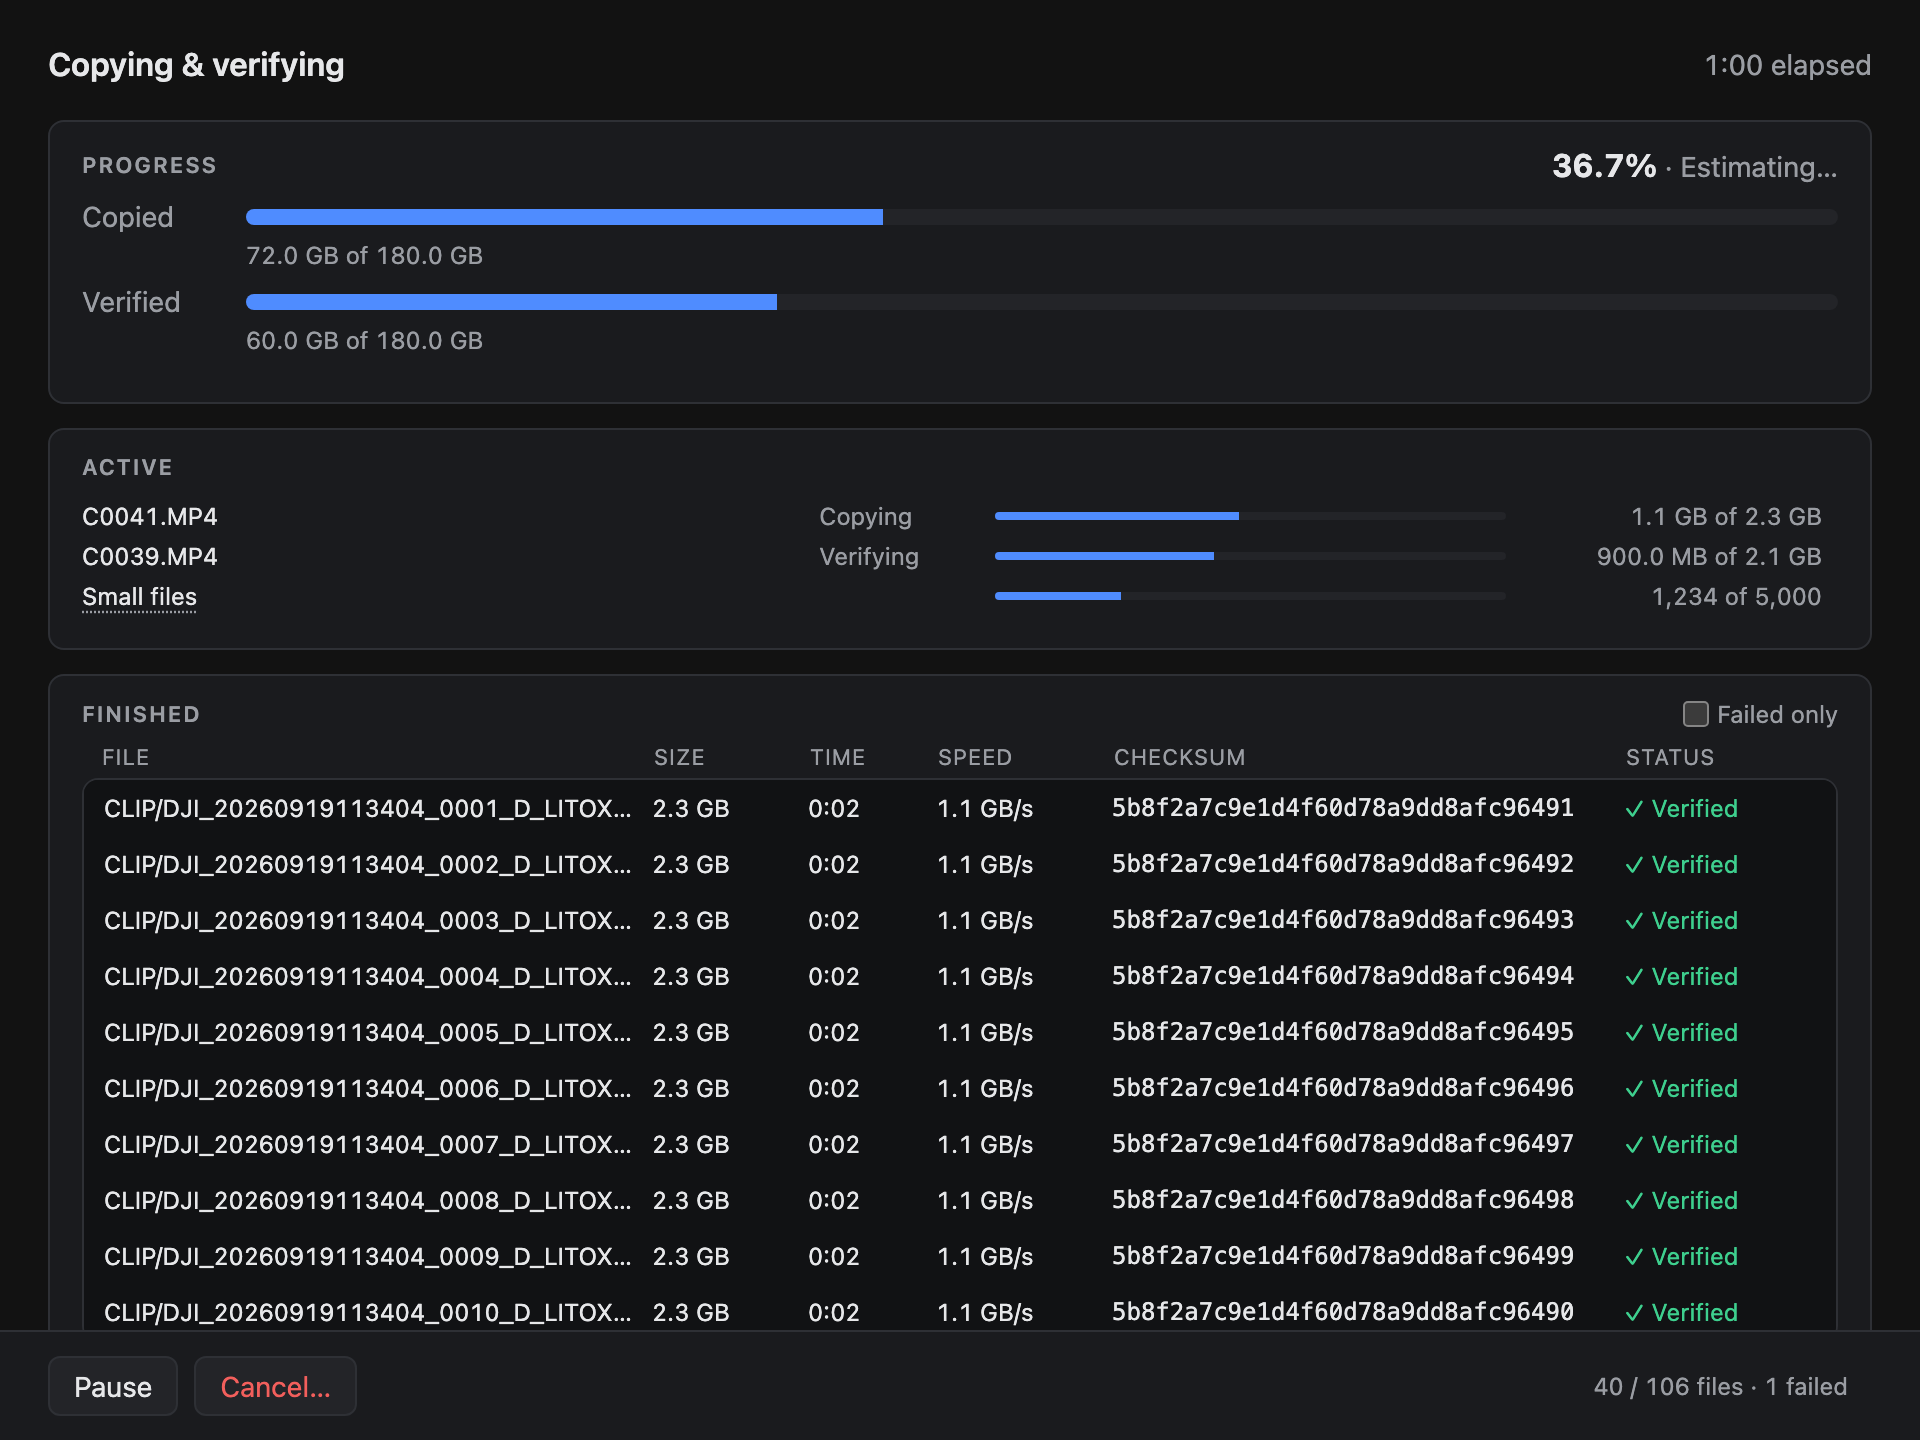
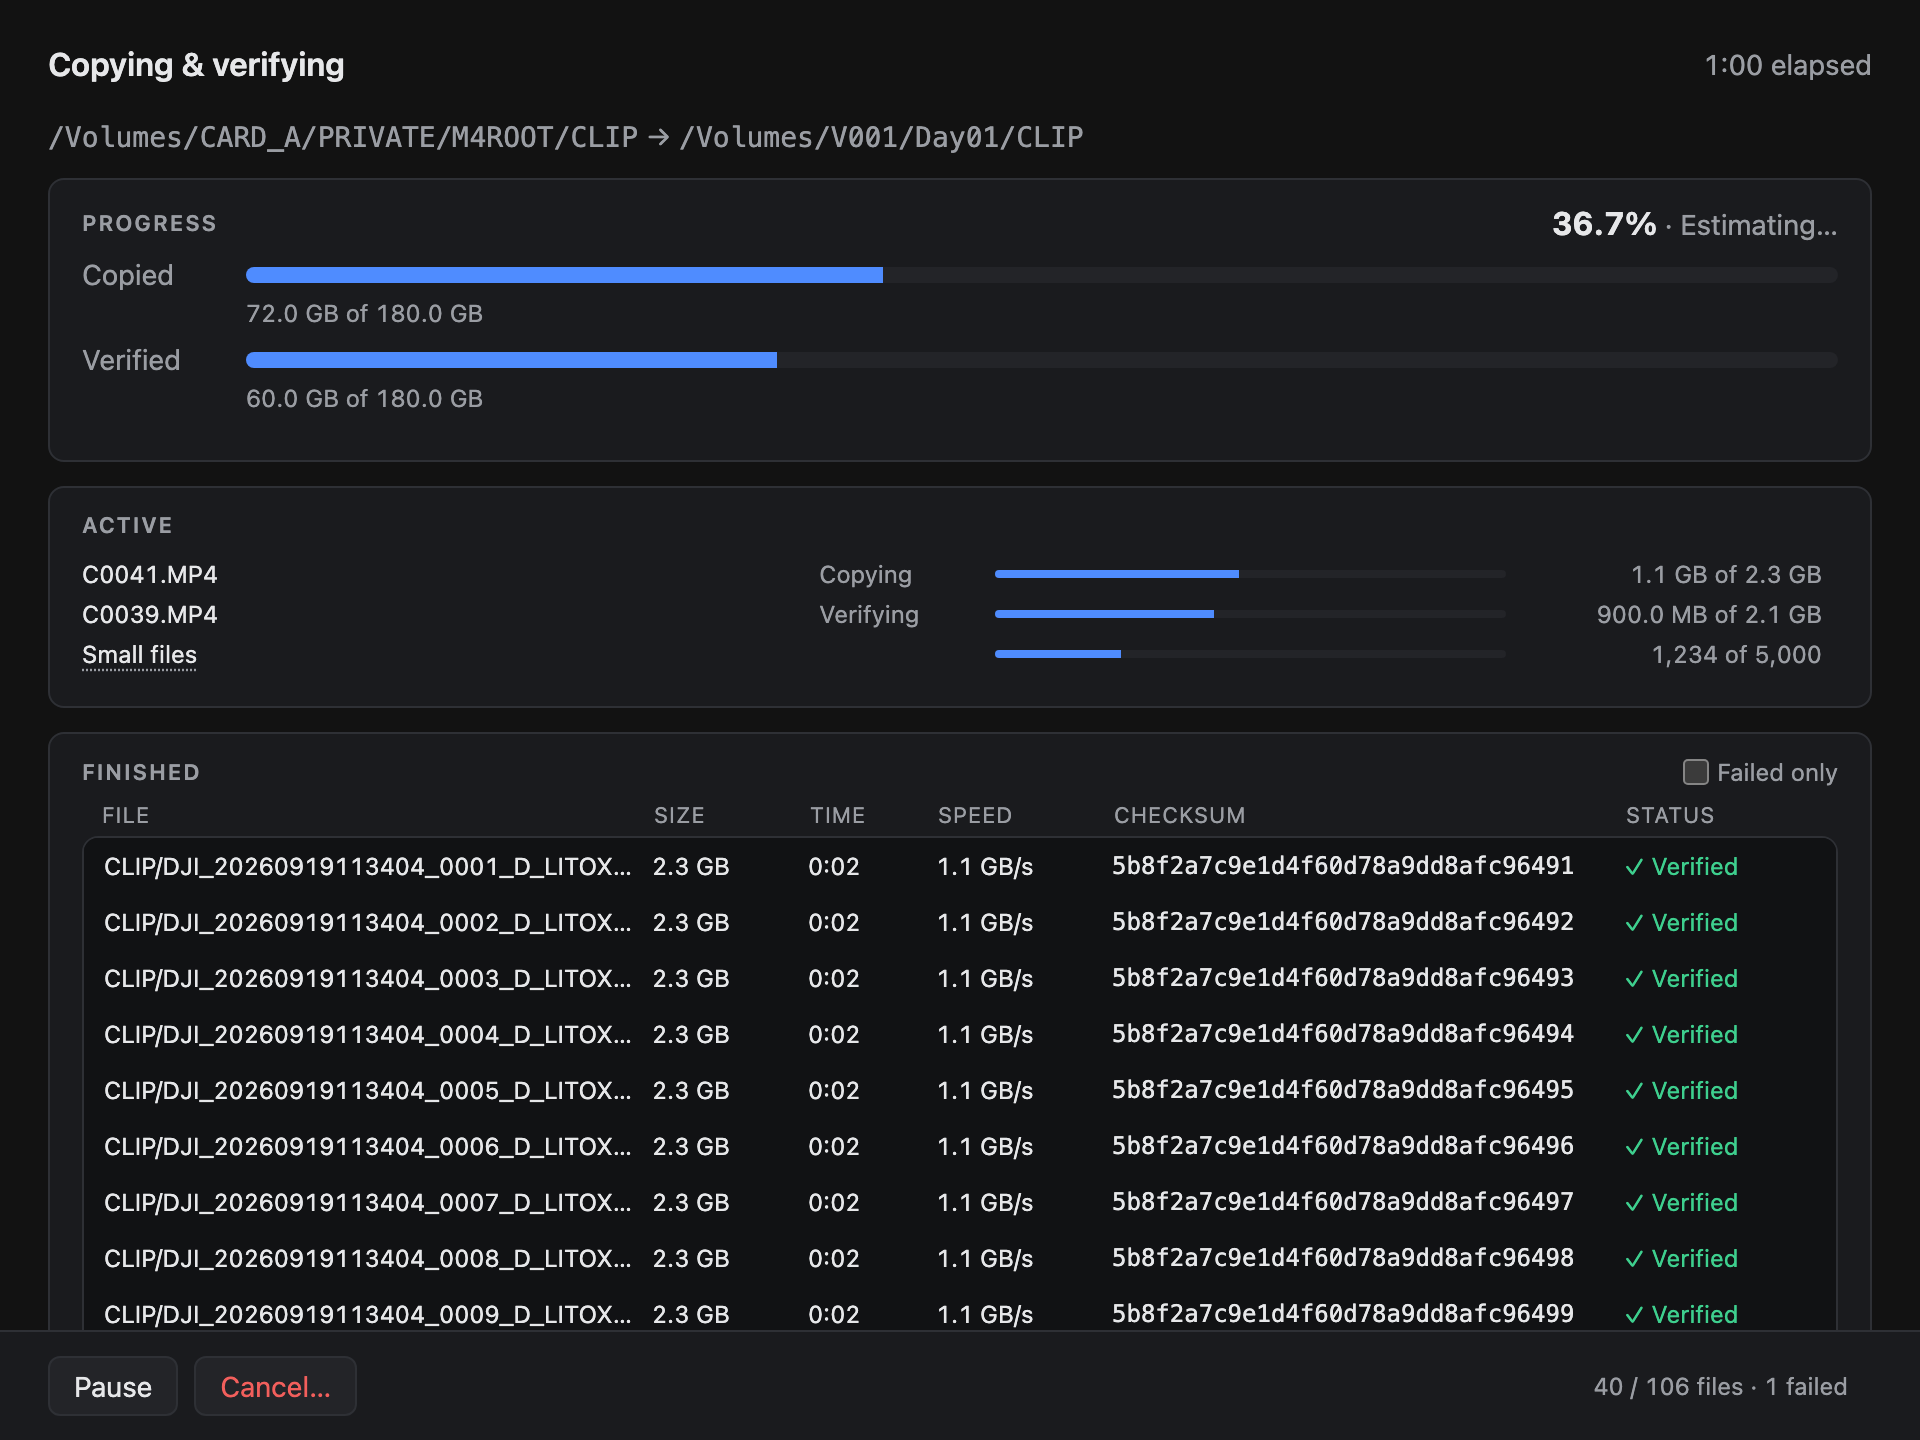
feat(progress): the screen says which job runs
A line under the title names the job: a copy's source → where its files
go, a mirror's name, origin → destination, Verify's directory. In a queue
it starts with the job's place ("Job 1 of 2"), moved there from the
action bar, and follows each job, its checks included. Long paths keep
their end visible, with the whole path in a tooltip.

Closes #208

diff --git a/ui/src/App.svelte b/ui/src/App.svelte
@@ -17,6 +17,7 @@
     ProgressView,
     MirrorPreset,
     MirrorPreviewView,
+    QueuedJobView,
     QueueSummaryView,
     QueueView,
     SessionView,
@@ -111,6 +112,13 @@
     compared?: { done: number; total: number };
   } | null = $state(null);
   let queueSummary: QueueSummaryView | null = $state(null);
+  /** Which job runs, named on its screen (#208). */
+  let runningJob: { name: string | null; source: string; destination: string | null } | null = $state(null);
+  const queuedJobOf = (job: QueuedJobView) => ({
+    name: job.kind === "mirror" ? job.name : null,
+    source: say(job.source),
+    destination: job.kind === "check" ? null : job.destination,
+  });
   /** The job running is a mirror. */
   let mirrorRunning = $state(false);
   /** The job running is a check (Verify). */
@@ -318,6 +326,10 @@
   }
 
   async function start() {
+    runningJob =
+      view.source && view.destination
+        ? { name: null, source: say(view.source.label), destination: view.destination.copyRoot }
+        : null;
     progress = waiting();
     screen = "progress";
     const started = await run(() =>
@@ -376,6 +388,7 @@
 
   /** Verify (plan 8): the Verifying screen, then the check's summary on the Verify tab. */
   async function runCheck(path: string) {
+    runningJob = { name: null, source: path, destination: null };
     progress = { ...waiting(), verify: true, totalFiles: 0, totalBytes: 0 };
     checkRunning = true;
     screen = "progress";
@@ -398,6 +411,7 @@
 
   /** Runs the previewed mirror (FR-47): the Mirroring screen, then its summary. */
   async function runMirror(preview: MirrorPreviewView) {
+    runningJob = { name: preview.name, source: preview.origin, destination: preview.destination };
     progress = {
       ...waiting(),
       verify: true,
@@ -431,17 +445,20 @@
     copyScreen = "setup";
     forgetMirrorSummary();
     queueRun = { index: 0, count: queue.jobs.length, checking: true, kind: null };
+    runningJob = queue.jobs[0] ? queuedJobOf(queue.jobs[0]) : null;
     progress = queueWaiting(false);
     screen = "progress";
     const started = await run(() =>
       api.runQueue((e) => {
         if (e.type === "jobChecking") {
           queueRun = { index: e.index, count: e.count, checking: true, kind: null };
+          runningJob = queue.jobs[e.index] ? queuedJobOf(queue.jobs[e.index]) : null;
           progress = queueWaiting(false);
         } else if (e.type === "compared") {
           if (queueRun) queueRun = { ...queueRun, compared: { done: e.done, total: e.total } };
         } else if (e.type === "jobStarted") {
           queueRun = { index: e.index, count: e.count, checking: false, kind: e.job.kind };
+          runningJob = queuedJobOf(e.job);
           progress = queueWaiting(e.job.kind === "mirror" || e.job.verify);
         } else if (e.type === "progress") {
           progress = e.view;
@@ -607,6 +624,7 @@
           {banner}
           queue={queueRun ?? undefined}
           checking={queueRun?.checking ?? false}
+          job={runningJob ?? undefined}
           compared={queueRun?.compared}
           mirror={runningKind === "mirror"}
           check={runningKind === "check"}

diff --git a/ui/src/components/JobProgress.svelte b/ui/src/components/JobProgress.svelte
@@ -30,6 +30,7 @@
     checking = false,
     compared,
     check = false,
+    job,
   }: {
     progress: ProgressView;
     /** The job is a mirror: its title and its stop question say so. */
@@ -44,6 +45,9 @@
     checksumFile?: boolean;
     /** In a queue run: this job's place (0-based) and the number of jobs. */
     queue?: { index: number; count: number };
+    /** Which job runs (#208): a mirror's name, the source (or origin, or the directory
+     *  Verify reads) and where its files go (`null` for Verify). */
+    job?: { name: string | null; source: string; destination: string | null };
     /** App-wide messages, shown first. */
     banner?: Snippet;
   } = $props();
@@ -91,8 +95,8 @@
               : t("progress.phase.copying"),
   );
   const files = $derived.by(() => {
-    const parts = queue ? [t("progress.status.job", { index: queue.index + 1, count: queue.count })] : [];
-    if (checking) return parts.join(t("format.dot"));
+    const parts: string[] = [];
+    if (checking) return "";
     parts.push(
       t("progress.status.files", {
         done: progress.filesDone,
@@ -179,6 +183,24 @@
     </ScreenHeader>
   {/snippet}
 
+  {#if queue || job}
+    <!-- Which job runs (#208); a long path keeps its end visible, <bdi> its slashes. -->
+    <div class="job" role="group" aria-label={t("progress.job")}>
+      {#if queue}<span class="place">{t("progress.status.job", { index: queue.index + 1, count: queue.count })}</span>{/if}
+      {#if queue && job}<span class="sep">{t("format.dot").trim()}</span>{/if}
+      {#if job}
+        {#if job.name}
+          <span class="name">{job.name}</span>
+          <span class="sep">{t("format.dot").trim()}</span>
+        {/if}
+        <span class="path mono" title={job.source}><bdi>{job.source}</bdi></span>
+        {#if job.destination}
+          <span class="arrow" aria-hidden="true">→</span>
+          <span class="path mono" title={job.destination}><bdi>{job.destination}</bdi></span>
+        {/if}
+      {/if}
+    </div>
+  {/if}
   {@render banner?.()}
   <p class="visually-hidden" aria-live="polite">{phase}</p>
   {#if progress.fatal}<Notice tone="danger">{t("progress.stopped", { why: say(progress.fatal) })}</Notice>{/if}
@@ -324,6 +346,30 @@
 {/if}
 
 <style>
+  .job {
+    display: flex;
+    align-items: baseline;
+    gap: 0 var(--space-1);
+    min-width: 0;
+    margin: 0;
+    color: var(--text-muted);
+  }
+
+  .job .place,
+  .job .name {
+    color: var(--text);
+    font-weight: 600;
+  }
+
+  .job .path {
+    min-width: 0;
+    overflow: hidden;
+    text-overflow: ellipsis;
+    white-space: nowrap;
+    direction: rtl;
+    text-align: left;
+  }
+
   .muted {
     color: var(--text-muted);
     margin: 0;

diff --git a/ui/src/App.test.ts b/ui/src/App.test.ts
@@ -53,6 +53,15 @@ describe("App", () => {
     await screen.findByRole("heading", { level: 1, name: "New copy" });
   });
 
+  test("a copy names its source and where its files go (#208)", async () => {
+    app();
+    await fireEvent.click(await startButton());
+    await screen.findByRole("heading", { name: "Copying & verifying" });
+    expect(screen.getByRole("group", { name: "Job" }).textContent?.replace(/\s+/g, " ").trim()).toBe(
+      "/Volumes/CARD/DCIM → /Volumes/RAID/Day01/DCIM",
+    );
+  });
+
   test("a job that can't start goes back to setup with the reason", async () => {
     const { api } = app();
     api.startJob.mockRejectedValueOnce(new Error("Nothing to copy, or something blocks the copy."));
@@ -455,9 +464,15 @@ describe("App", () => {
     await fireEvent.click(await screen.findByRole("button", { name: "Start" }));
     await waitFor(() => expect(state.queueEvent).not.toBeNull());
     state.queueEvent!({ type: "jobChecking", index: 0, count: 2 });
-    state.queueEvent!({ type: "jobStarted", index: 0, count: 2, job: queuedJob() });
+    const studio = queuedJob({ kind: "mirror", name: "Studio", source: raw("/Users/beli/Studio"), destination: "/Volumes/Media/Mirror/Studio" });
+    state.queueEvent!({ type: "jobStarted", index: 0, count: 2, job: studio });
     state.queueEvent!({ type: "progress", view: progressView() });
-    await screen.findByText(/^Job 1 of 2 · /);
+    // #208: which job runs, with its place.
+    await waitFor(() =>
+      expect(screen.getByRole("group", { name: "Job" }).textContent?.replace(/\s+/g, " ").trim()).toBe(
+        "Job 1 of 2 · Studio · /Users/beli/Studio → /Volumes/Media/Mirror/Studio",
+      ),
+    );
     state.queueEvent!({ type: "done", summary: { complete: 2, count: 2, millis: 1000, results: [
       { job: queuedJob(), result: "complete", reason: null, summary: summaryView() },
       { job: queuedJob(), result: "complete", reason: null, summary: summaryView() },
@@ -483,7 +498,7 @@ describe("App", () => {
     await waitFor(() => expect(api.finishedPage).toHaveBeenCalledTimes(1));
     state.queueEvent!({ type: "jobChecking", index: 1, count: 2 });
     state.queueEvent!({ type: "jobStarted", index: 1, count: 2, job: queuedJob() });
-    await screen.findByText(/^Job 2 of 2 · /);
+    await waitFor(() => expect(screen.getByRole("group", { name: "Job" }).textContent).toMatch(/^\s*Job 2 of 2/));
     state.queueEvent!({ type: "progress", view: progressView({ filesDone: 1 }) });
     await waitFor(() => expect(api.finishedPage).toHaveBeenCalledTimes(2), { timeout: 500 });
   });

diff --git a/ui/src/components/JobProgress.test.ts b/ui/src/components/JobProgress.test.ts
@@ -379,10 +379,30 @@ describe("JobProgress", () => {
     }
   });
 
+  // #208: the screen says which job runs, under its title.
+  const studio = { name: "Studio", source: "/Users/beli/Studio", destination: "/Volumes/Media/Mirror/Studio" };
+
+  test("the job is named under the title: a mirror's name, origin and destination (#208)", () => {
+    const { api } = fakeApi();
+    render(JobProgress, { props: { progress: progressView(), mirror: true, job: studio }, context: apiContext(api) });
+    const job = screen.getByRole("group", { name: "Job" });
+    expect(job.textContent?.replace(/\s+/g, " ").trim()).toBe("Studio · /Users/beli/Studio → /Volumes/Media/Mirror/Studio");
+    expect(within(job).getByText("/Users/beli/Studio").closest("[title]")?.getAttribute("title")).toBe("/Users/beli/Studio");
+  });
+
+  test("a verify names its directory, with no arrow (#208)", () => {
+    const { api } = fakeApi();
+    const job = { name: null, source: "/Volumes/Backup/Day01", destination: null };
+    render(JobProgress, { props: { progress: progressView(), check: true, job }, context: apiContext(api) });
+    expect(screen.getByRole("group", { name: "Job" }).textContent?.trim()).toBe("/Volumes/Backup/Day01");
+  });
+
   test("in a queue: Job n of m, and Cancel stops the queue", async () => {
     const { api } = fakeApi();
-    render(JobProgress, { props: { progress: progressView(), queue: { index: 1, count: 3 } }, context: apiContext(api) });
-    within(screen.getByRole("group", { name: "Actions" })).getByText(/^Job 2 of 3 · /);
+    render(JobProgress, { props: { progress: progressView(), queue: { index: 1, count: 3 }, job: studio }, context: apiContext(api) });
+    // #208: the job's place starts the line that names it, not the action bar.
+    expect(screen.getByRole("group", { name: "Job" }).textContent?.replace(/\s+/g, " ").trim()).toMatch(/^Job 2 of 3 · Studio · /);
+    expect(within(screen.getByRole("group", { name: "Actions" })).queryByText(/Job 2 of 3/)).toBeNull();
     await fireEvent.click(screen.getByRole("button", { name: "Cancel…" }));
     screen.getByRole("dialog", { name: "Cancel this job and stop the queue?" });
     expect(api.confirm).not.toHaveBeenCalled();

diff --git a/ui/src/gallery/Gallery.svelte b/ui/src/gallery/Gallery.svelte
@@ -60,13 +60,16 @@
   $effect(() => {
     if (page === "cancel") progressScreen?.cancel();
   });
+  // Which job runs (#208), as App passes it.
+  const copyJob = { name: null, source: "/Volumes/CARD_A/PRIVATE/M4ROOT/CLIP", destination: "/Volumes/V001/Day01/CLIP" };
+  const mirrorJob = { name: "Footage → NAS", source: "/Volumes/SSD/Footage", destination: "/Volumes/NAS/Footage" };
   const help = createRawSnippet(() => ({ render: () => "<span>A line of help under the option.</span>" }));
 </script>
 
 {#if page === "setup"}
   <App {api} />
 {:else if page === "progress"}
-  <JobProgress {progress} />
+  <JobProgress {progress} job={copyJob} />
 {:else if page === "summary"}
   <Summary {summary} onRetry={() => {}} onNewCopy={() => {}} />
 {:else if page === "settings"}
@@ -112,13 +115,19 @@
 {:else if page === "verify-summary"}
   <Summary summary={verifySummary} onDone={() => {}} />
 {:else if page === "cancel"}
-  <JobProgress bind:this={progressScreen} {progress} />
+  <JobProgress bind:this={progressScreen} {progress} job={copyJob} />
 {:else if page === "mirror-preview"}
   <MirrorPreview preview={mirrorPreview} onRun={() => {}} onQueue={() => {}} onCancel={() => {}} />
 {:else if page === "mirror-summary"}
   <Summary summary={mirrorSummary} onDone={() => {}} />
 {:else if page === "mirroring"}
-  <JobProgress progress={{ ...progress, phase: "removing", removing: 5, archiving: true }} mirror checksumFile={false} />
+  <JobProgress
+    progress={{ ...progress, phase: "removing", removing: 5, archiving: true }}
+    mirror
+    checksumFile={false}
+    job={mirrorJob}
+    queue={{ index: 0, count: 2 }}
+  />
 {:else if page === "queue-summary"}
   <QueueSummary summary={queueSummary} onOpen={() => {}} onDone={() => {}} />
 {:else if page === "queue"}

diff --git a/docs/rfd/0001-secopy.md b/docs/rfd/0001-secopy.md
@@ -695,3 +695,4 @@ The stack meets these constraints:
 | 2026-10-04 | **Code review for 1.0** (#192, with Fable 5.1 and GPT-6.1 Sol High): ASC MHL writes on file systems that can't sync a directory (only a device error fails it, as for checksum files); free space from 64-bit `statfs` counts (`statvfs`'s wrapped past 16 TiB); Verify reads a file once when two checksum files spell it in different Unicode forms, and leaves out a second report of the same second; text and JSON reports are saved as a pair; the JSON report has `format: 1` and a mirror's `mode` is `mirror`; a data file that can't be read just now is left as it is and not saved over (only a damaged one is set aside); the CLI's `--check` writes `--report` and refuses copy options, and `--archive-days` starts at 1. From GPT-6.1 Sol: nothing is written through a symlinked directory in the destination (a link into the source let Overwrite replace a source file); checksum files and reports are written whole under a temporary name, then named; ASC MHL reads `<previousPath>` as the standard has it, compares history names in one Unicode form, and an undo removes a history brought from the source; a mirror's failed rename is said and the run isn't Complete; reports carry ASC MHL details and what Cancel's removal did; a queue change and Start don't interleave; paths keep spaces at their end; the CLI exits 1 for a differing file left as it was and refuses copy options with `--mirror`; the mirror preview lists every change. Declined: exFAT's check-then-rename fallback (no exclusive rename there; Secopy's own jobs are kept apart by the partial file's lock), a report save that fails leaving the copy Complete (decision of 2026-09-30), cancelling a superseded scan, and larger refactors. |
 | 2026-10-05 | **"Not found"** (#199): a directory that isn't there is said one way everywhere, its role then its path: Source / Origin / Destination / Directory “path” not found. (es: “… no encontrado”); never "not connected" or "isn't there any more", whether its drive is unplugged or the directory deleted. Keys a saved queue may hold (`errors.source.gone`, `errors.source.notConnected`) stay in the catalogs with the new wording. A mirror's error is cleared when another mirror is selected. |
 | 2026-10-05 | **Queue: drag to reorder** (#205): each job has a grip; dragging it moves the job, the others making room, and dropping saves the order. The ↑/↓ buttons are gone; from the keyboard (and VoiceOver) the grip takes focus and ⌥↑ / ⌥↓ moves the job, announced. Built on pointer events, not HTML drag and drop, which Tauri's own file drop can get in the way of. |
+| 2026-10-05 | **Which job runs** (#208): the progress screen names its job under the title, a copy's source → where its files go, a mirror's name, origin → destination, Verify's directory, led in a queue by its place ("Job 1 of 2", moved there from the action bar). From what the window already knows; the backend is unchanged. |

diff --git a/docs/testing/macos-app-checklist.md b/docs/testing/macos-app-checklist.md
@@ -88,7 +88,8 @@ the `.dmg` with `xattr`; or build it with `npm run tauri build` from `ui/`. Then
 ## Queue
 
 23. **Queue.** Set up three copies (two cards, one directory) with Add to queue; drag one by its grip to another place (the others make room), and move one with ⌥↑ / ⌥↓;
-    Start the queue with the window in the background: one notification at the end; the queue
+    Start the queue: under the title, "Job 1 of 3" and that job's source → destination (a
+    mirror's name too), changing with each job. With the window in the background: one notification at the end; the queue
     summary opens each job's summary; the queue is empty.
 24. **Queue failures.** Queue a card, take it out, start the queue with "Continue with the next
     job": that job fails ("Source “…” not found."), the others run, it stays in the queue.

diff --git a/docs/user-guide.md b/docs/user-guide.md
@@ -98,7 +98,9 @@ shows it as it is now.
 
 ![Copying](images/progress.png)
 
-The bars show what's been copied and verified, with the speed and the time left. **Active**
+The line under the title names the job: its source and where its files go (a mirror's name,
+origin and destination; the directory Verify reads), led in a queue by its place ("Job 1 of
+2"). The bars show what's been copied and verified, with the speed and the time left. **Active**
 shows the files in progress (small files together), and the list below every file that's
 finished, with its checksum and status; **Failed only** filters it.
 
